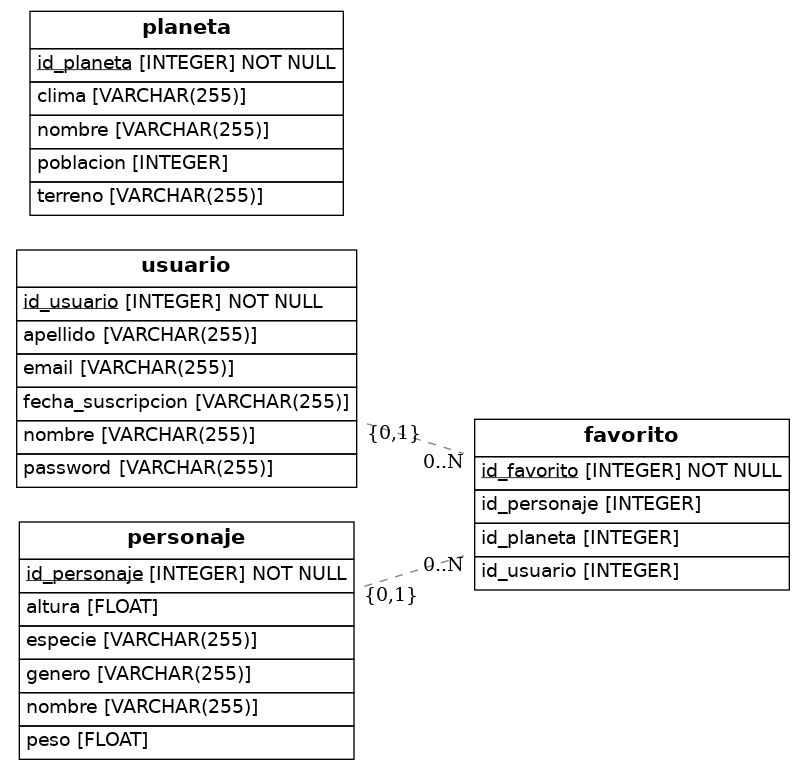
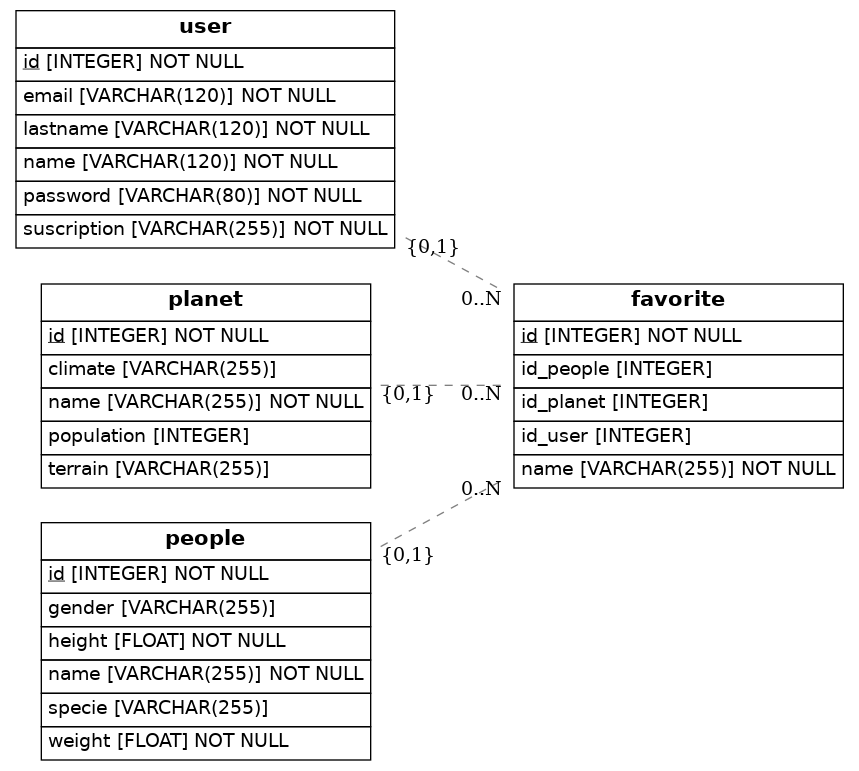
fix relationship

Changed region(s): [[0.0, 0.0, 0.9938, 0.9974], [0.9627, 0.7169, 0.9938, 0.7481], [0.4969, 0.561, 0.528, 0.5922]]

diff --git a/src/models.py b/src/models.py
@@ -7,42 +7,46 @@ from eralchemy2 import render_er
 
 Base = declarative_base()
 
-class Usuario(Base):
-    __tablename__ = 'usuario'
-    id_usuario = Column(Integer, primary_key=True)
-    nombre = Column(String(255))
-    apellido = Column(String(255))
-    password = Column(String(255))
-    email = Column(String(255))
-    fecha_suscripcion = Column(String(255))
+class User(Base):
+    __tablename__ = 'user'
+    id = Column(Integer, primary_key=True)
+    name = Column(String(120), nullable=False)
+    lastname = Column(String(120), nullable=False)
+    password = Column(String(80), nullable=False)
+    email = Column(String(120), unique=True, nullable=False)
+    suscription = Column(String(255), nullable=False)
+    favorites = relationship("Favorite", back_populates="user")
 
-class Planeta(Base):
-    __tablename__ = 'planeta'
-    id_planeta = Column(Integer, primary_key=True)
-    nombre = Column(String(255))
-    clima = Column(String(255))
-    terreno = Column(String(255))
-    poblacion = Column(Integer)
+class Planet(Base):
+    __tablename__ = 'planet'
+    id = Column(Integer, primary_key=True)
+    name = Column(String(255), nullable=False)
+    climate = Column(String(255))
+    terrain = Column(String(255))  # Corregido de 'land' a 'terrain'
+    population = Column(Integer)
+    favorites = relationship("Favorite", back_populates="planet")
 
-class Personaje(Base):
-    __tablename__ = 'personaje'
-    id_personaje = Column(Integer, primary_key=True)
-    nombre = Column(String(255))
-    altura = Column(Float)
-    peso = Column(Float)
-    genero = Column(String(255))
-    especie = Column(String(255))
+class People(Base):
+    __tablename__ = 'people'
+    id = Column(Integer, primary_key=True)
+    name = Column(String(255), nullable=False, unique=True)
+    height = Column(Float, nullable=False)
+    weight = Column(Float, nullable=False)
+    gender = Column(String(255))
+    specie = Column(String(255))
+    favorites = relationship("Favorite", back_populates="people")
 
-class Favorito(Base):
-    __tablename__ = 'favorito'
-    id_favorito = Column(Integer, primary_key=True)
-    id_usuario = Column(Integer, ForeignKey('usuario.id_usuario'), nullable=True)
-    id_planeta = Column(Integer, ForeignKey('planet.id_planeta'), nullable=True)
-    id_personaje = Column(Integer, ForeignKey('personaje.id_personaje'), nullable=True)
+class Favorite(Base):
+    __tablename__ = 'favorite'
+    id = Column(Integer, primary_key=True)
+    name = Column(String(255), nullable=False, unique=True)
+    id_user = Column(Integer, ForeignKey('user.id'), nullable=True)
+    id_planet = Column(Integer, ForeignKey('planet.id'), nullable=True)
+    id_people = Column(Integer, ForeignKey('people.id'), nullable=True)
     
-    usuario = relationship("Usuario", foreign_keys=[id_usuario])
-    planeta = relationship("Planeta", foreign_keys=[id_planeta])
-    personaje = relationship("Personaje", foreign_keys=[id_personaje])
+    user = relationship("User", back_populates="favorites")
+    planet = relationship("Planet", back_populates="favorites")
+    people = relationship("People", back_populates="favorites")
 
-## Draw from SQLAlchemy base
+# Generar el diagrama
 render_er(Base, 'diagram.png')
